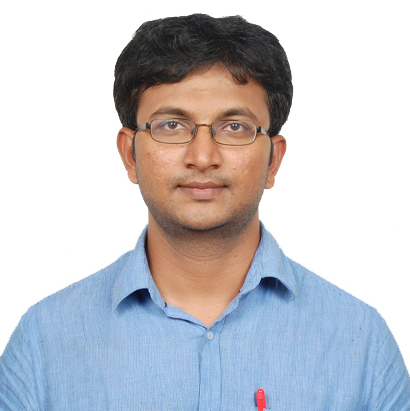
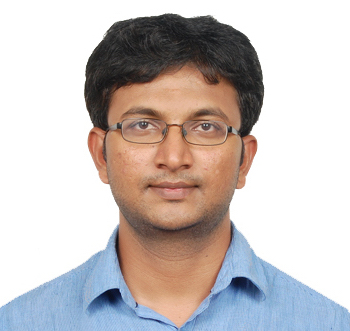
added binny, dhiru and pramod photo

diff --git a/our_company.php b/our_company.php
@@ -123,7 +123,7 @@
                         </div>
                         <div class="col-sm-4">
                             <div class="feature feature-8">
-                                <img alt="Binny Gopinath" src="img/binny_gopinath.jpg" />
+                                <img alt="Binny Gopinath" src="img/binny_gopinath.png" />
                                 <h5>Binny Gopinath Sreevas</h5>
                                 <span>Partner &amp; VP, Sales &amp; Marketing</span>
                             </div>
@@ -144,14 +144,14 @@
                         </div>
                         <div class="col-sm-4">
                             <div class="feature feature-8">
-                                <img alt="Dhirendra Pratap" src="img/dhirendra_pratap.jpg" />
+                                <img alt="Dhirendra Pratap" src="img/dhirendra_pratap.png" />
                                 <h5>Dhirendra Pratap</h5>
                                 <span>Engineering Director</span>
                             </div>
                         </div>
                         <div class="col-sm-4">
                             <div class="feature feature-8">
-                                <img alt="Pramod Nuthakki" src="img/avatar-round-6.png" />
+                                <img alt="Pramod Nuthakki" src="img/pramod_nuthakki.png" />
                                 <h5>Pramod Nuthakki</h5>
                                 <span>Chief Architect</span>
                             </div>

diff --git a/automated-lending-solution.php b/automated-lending-solution.php
@@ -83,7 +83,7 @@
                         </div>
                         <div class="col-sm-6 col-md-5 col-md-offset-1">
                             <div class="switchable__text">
-                                <h2>Mechine aided
+                                <h2>Machine aided
                                     <br class="hidden-xs hidden-sm" />assessment and appraisal</h2>
                                 <p class="lead">
                                     Collate data from various sources, access to exposure status of customer, business unit and across product portfolio. Generates risk rating.
